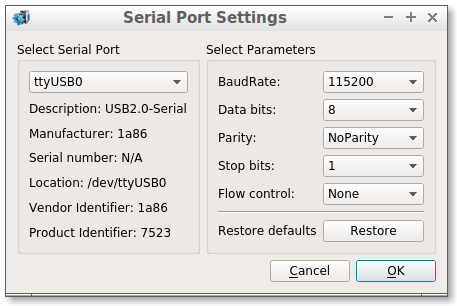
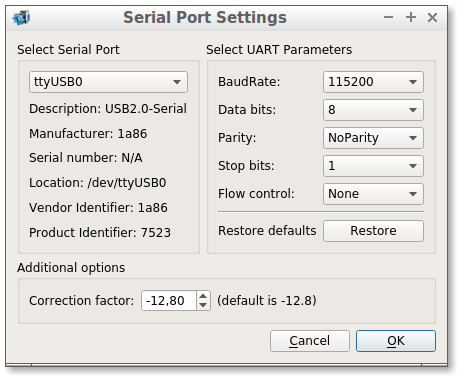
Added a new feature - correction factor

diff --git a/SynchroTimeApp/console.cpp b/SynchroTimeApp/console.cpp
@@ -91,7 +91,7 @@ const QString Console::formatHtml( const QString &qText, const QColor &qColor ) 
             break;
         case '\'': qHtmlText += QString::fromLatin1("&apos;");
             break;
-        case '\t': qHtmlText += QString::fromLatin1("&nbsp;&nbsp;&nbsp;");
+        case '\t': qHtmlText += QString::fromLatin1("&nbsp;&nbsp;&nbsp;&nbsp;");
             break;
         case '\n': qHtmlText += QString::fromLatin1("<br/>");
             break;

diff --git a/README.md b/README.md
@@ -1,4 +1,5 @@
 # SynchroTime - CLI- and GUI-client for adjust the exact time and calibrating the RTC DS3231 module
+
 [![Documentation](./images/doxygen_badge.svg)](https://sergejbre.github.io/SynchroTime/doc/html/index.html)[![releases page](./images/release_badge.svg)](https://github.com/SergejBre/SynchroTime/releases)
 
 ![PROJECT_IMAGE](./images/guiApp_About.png)
@@ -227,8 +228,10 @@ Manipulation with the Aging Register within LBS values affects the thermal
 
 ![Frequency deviation](./images/frequency_deviation.png)
 
+![Linear approximation](./images/linear_approximation.png)
+
 ## Documentation
-For the detailed API documentation, see [![Documentation](./images/doxygen_badge.svg)](https://sergejbre.github.io/SynchroTime/doc/html/index.html). Documentation is produced by doxygen.
+For the detailed API documentation, see [link](https://sergejbre.github.io/SynchroTime/doc/html/index.html). Documentation is produced by doxygen.
 
 ## Dependencies
 | Name         | Version                          | Comment                                         |
